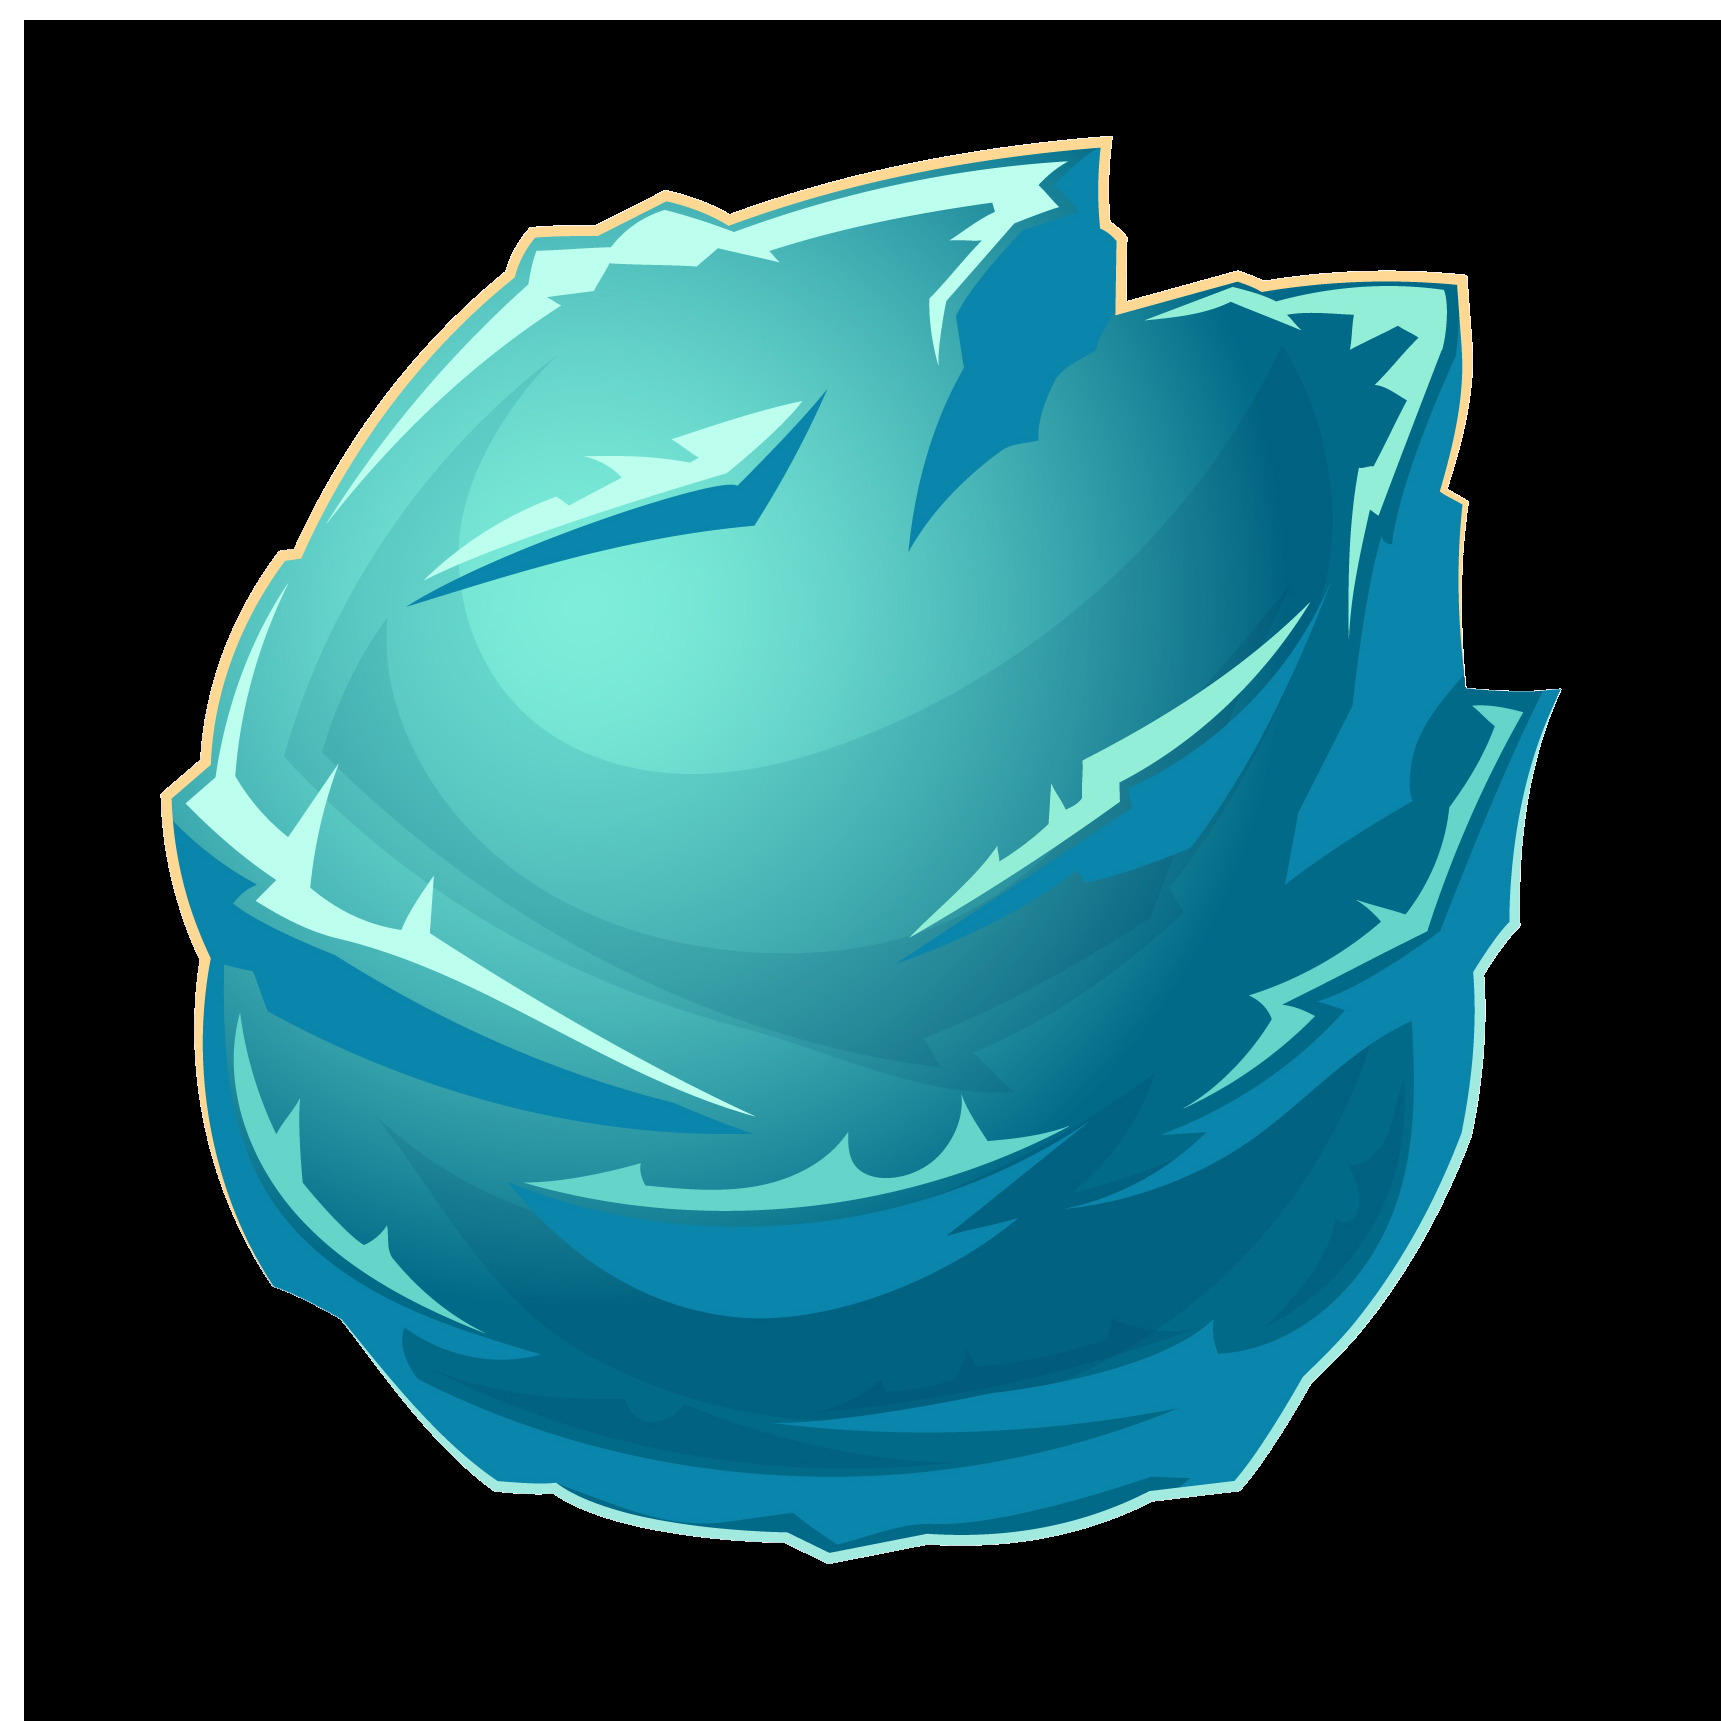
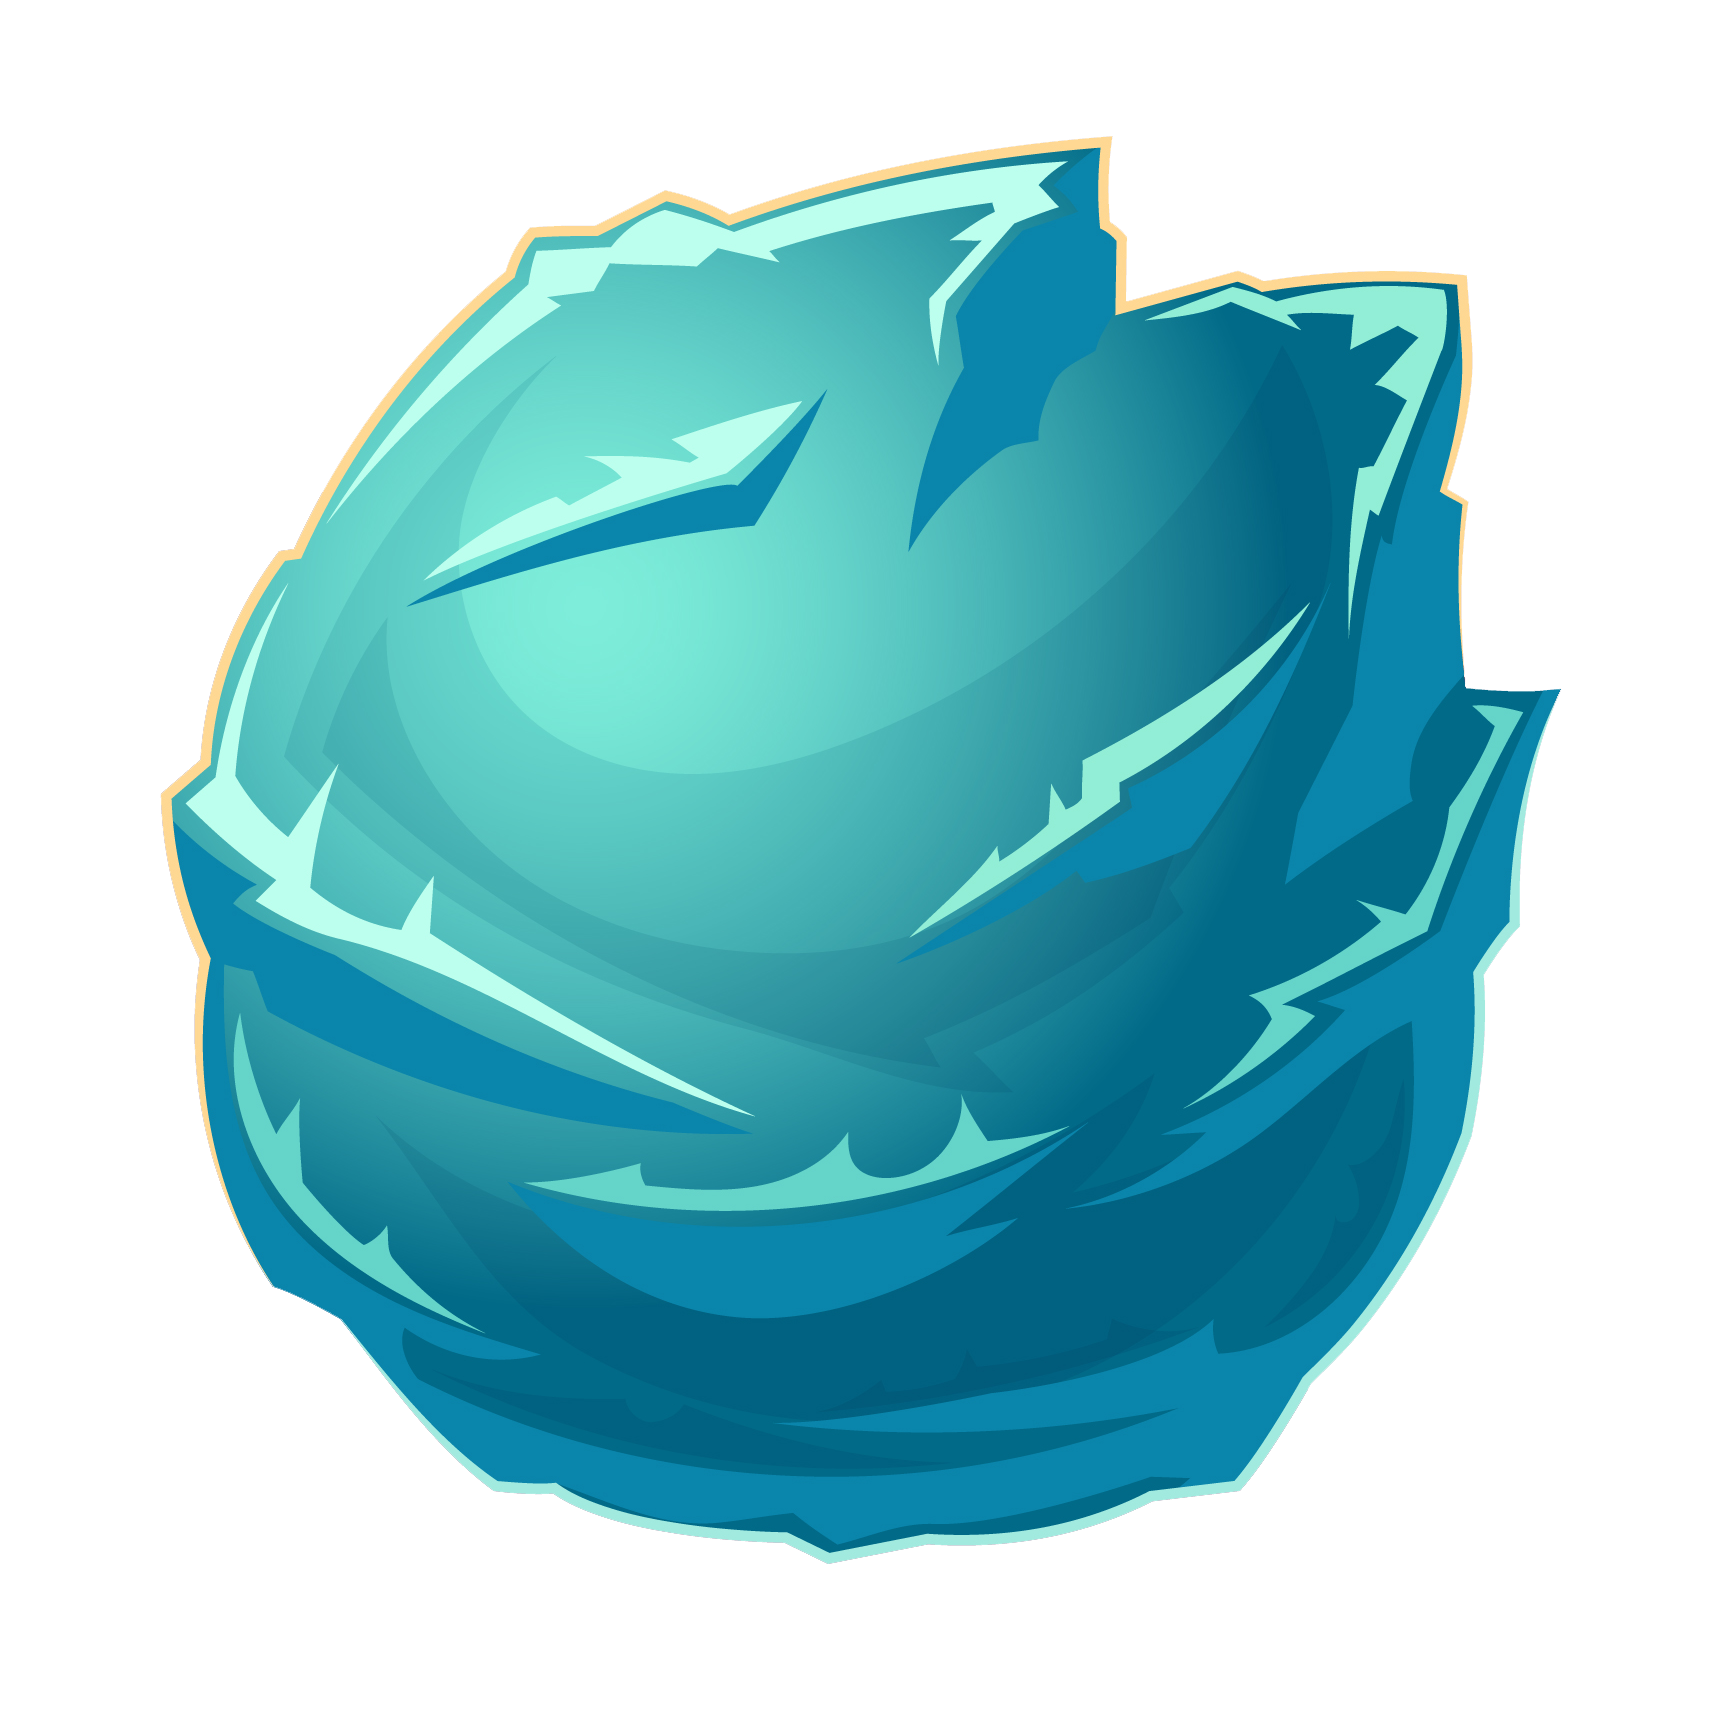
Made tiles transparent on canvas, and added background image to current playing field.

diff --git a/appv4.js b/appv4.js
@@ -377,6 +377,9 @@ moon.src = "planet_moon.png";
 var lava = new Image;
 lava.src = "planet_lava.png";
 
+var background = new Image;
+background.src = "playfiled bg.png";
+
 var xPosition, yPosition = 0;
 
 
@@ -386,22 +389,32 @@ function makeGame() {
     for (var i in map) {
         for (var j in map[i]) {
             if (map[i][j] === 0) {
+                ctx.globalAlpha = 0.1;
+                ctx.clearRect(xPosition, yPosition, 50, 50);
                 ctx.drawImage(black, xPosition, yPosition, 50, 50);
             } else if (map[i][j] === 1) {
+                ctx.clearRect(xPosition, yPosition, 50, 50);
                 ctx.drawImage(black, xPosition, yPosition, 50, 50);
             } else if (map[i][j] === 2) {
+                ctx.clearRect(xPosition, yPosition, 50, 50);
                 ctx.drawImage(fire, xPosition, yPosition, 50, 50);
             } else if (map[i][j] === 3) {
+                ctx.clearRect(xPosition, yPosition, 50, 50);
                 ctx.drawImage(metal, xPosition, yPosition, 50, 50);
             } else if (map[i][j] === 4) {
+                ctx.clearRect(xPosition, yPosition, 50, 50);
                 ctx.drawImage(black, xPosition, yPosition, 50, 50);
             } else if (map[i][j] === 5) {
+                ctx.clearRect(xPosition, yPosition, 50, 50);
                 ctx.drawImage(ice, xPosition, yPosition, 50, 50);
             } else if (map[i][j] === 6) {
+                ctx.clearRect(xPosition, yPosition, 50, 50);
                 ctx.drawImage(earth, xPosition, yPosition, 50, 50);
             } else if (map[i][j] === 7) {
+                ctx.clearRect(xPosition, yPosition, 50, 50);
                 ctx.drawImage(moon, xPosition, yPosition, 50, 50);
             } else if (map[i][j] === 8) {
+                ctx.clearRect(xPosition, yPosition, 50, 50);
                 ctx.drawImage(lava, xPosition, yPosition, 50, 50);
             }
 
@@ -1046,5 +1059,4 @@ function instructions() {
         })
     });
 }
-
 

diff --git a/appv2.html b/appv2.html
@@ -33,7 +33,7 @@
     <!-- <img id="planetMetal"> -->
     <!-- <img id="rocketman" alt="An image of a rocket."> -->
 
-        <canvas id="myCanvas" height="500" width="550">
+        <canvas id="myCanvas" height="500" width="550" style="background: url('playfiled bg.png')">
         </canvas>
 
     </div>

diff --git a/app.css b/app.css
@@ -137,4 +137,3 @@ body {
 }
 
 
-
